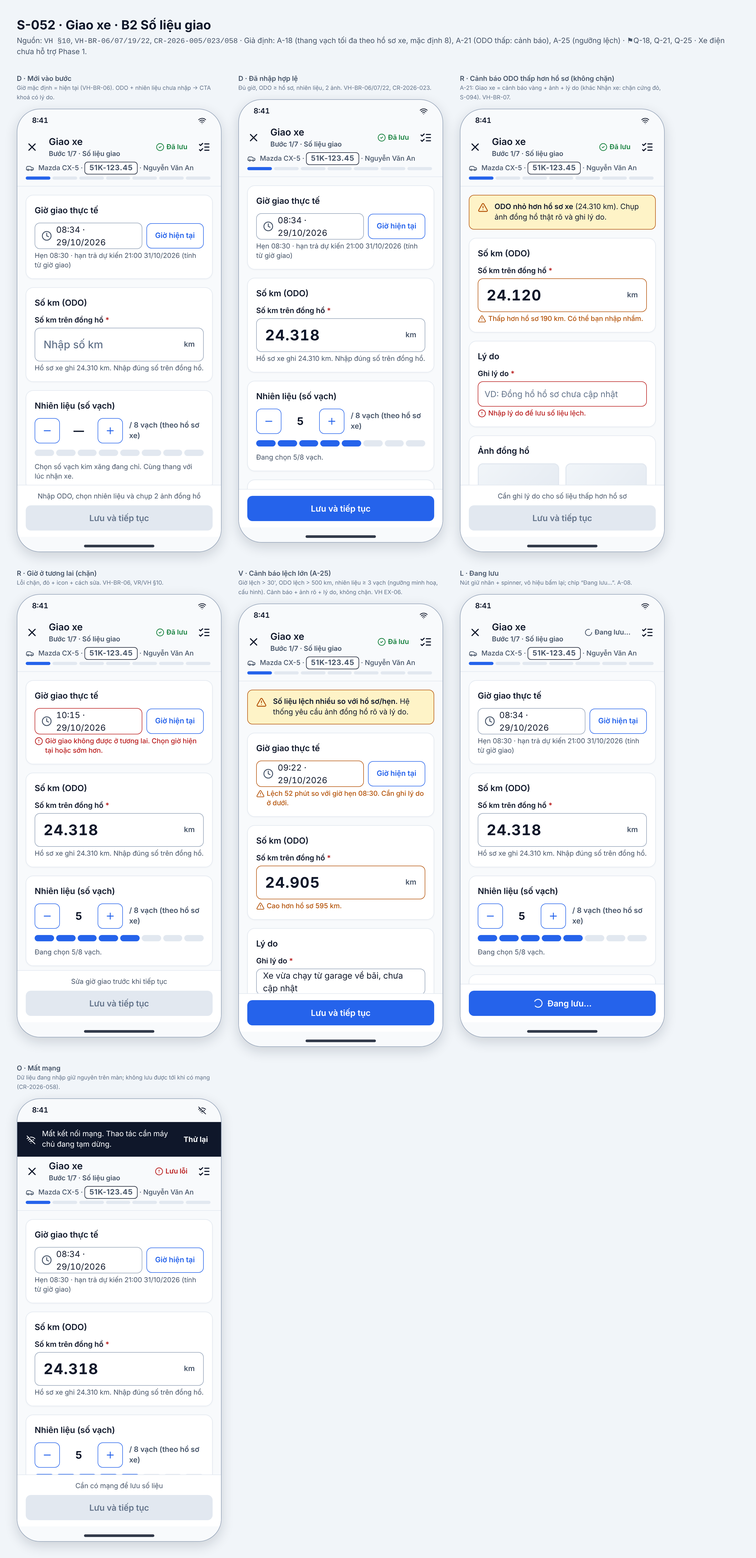
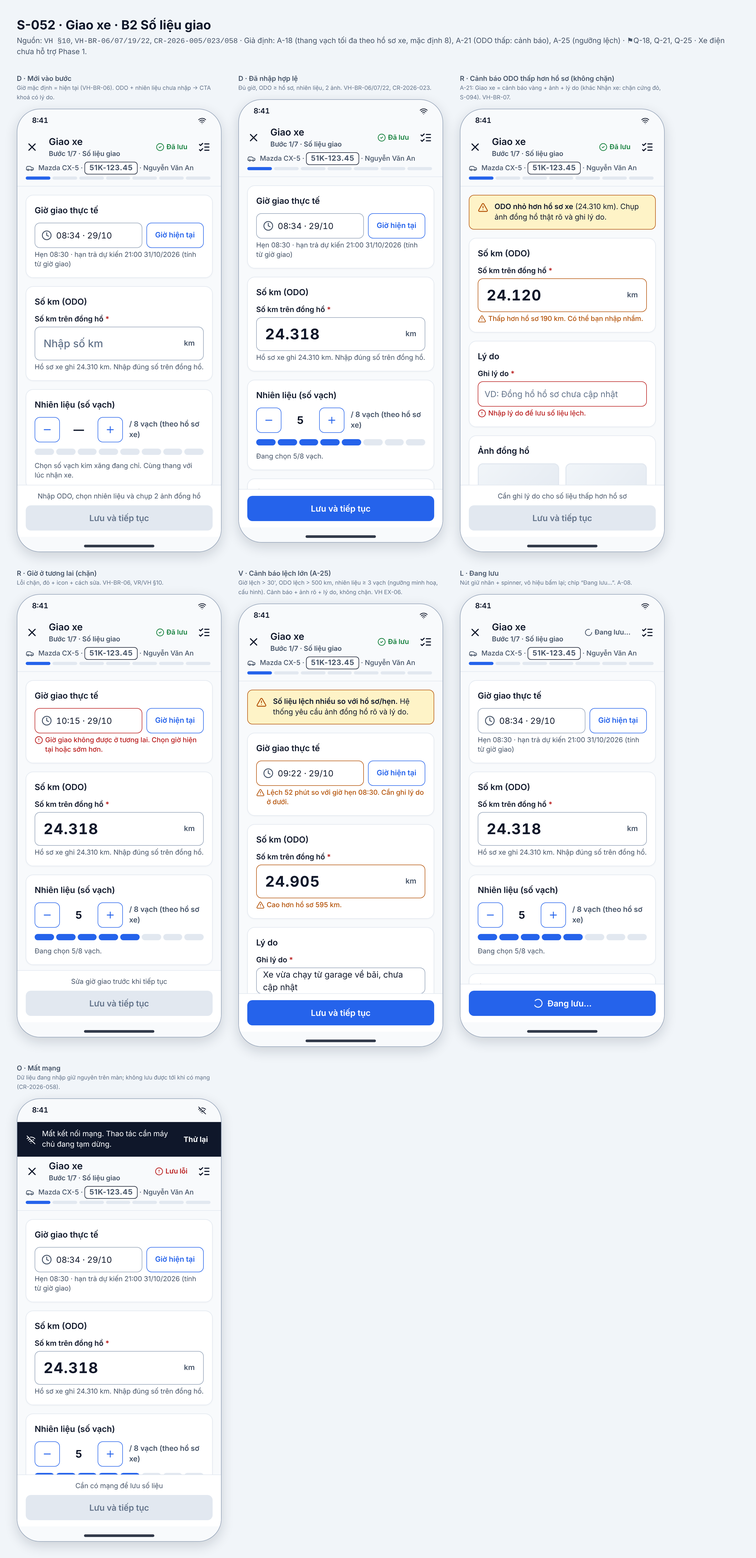
design(staff-app): WIP GĐ2–GĐ3 và cập nhật GĐ4–GĐ6
Claude-Session: https://claude.ai/code/session_01EqYbDeADsqgKkKnKeGjDm6

diff --git a/design/staff-app/screens/S-052-giao-so-lieu.html b/design/staff-app/screens/S-052-giao-so-lieu.html
@@ -7,29 +7,29 @@
 </head><body>
 <header class="page-title"><h1>S-052 · Giao xe · B2 Số liệu giao</h1><p>Nguồn: <code>VH §10</code>, <code>VH-BR-06/07/19/22</code>, <code>CR-2026-005/023/058</code> · Giả định: A-18 (thang vạch tối đa theo hồ sơ xe, mặc định 8), A-21 (ODO thấp: cảnh báo), A-25 (ngưỡng lệch) · ⚑Q-18, Q-21, Q-25 · Xe điện chưa hỗ trợ Phase 1.</p></header>
 <main class="stage">
-<section class="stage-col"><div class="stage-cap">D · Mới vào bước<small>Giờ mặc định = hiện tại (VH-BR-06). ODO + nhiên liệu chưa nhập → CTA khoá có lý do.</small></div><div class="device  "><div class="statusbar"><span>8:41</span><span class="sb-icons"><i data-icon="wifi" data-size="16"></i></span></div><div class="device-body"><div class="wiz-head"><div class="row"><button class="icon-btn" aria-label="Thoát hoặc tạm dừng"><i data-icon="x" data-size="24"></i></button><div class="grow"><div class="t-h-sm">Giao xe</div><div class="step-label">Bước 1/7 · Số liệu giao</div></div><span class="saved"><i data-icon="check-circle" data-size="16"></i>Đã lưu</span><button class="icon-btn" aria-label="Xem các bước"><i data-icon="list-checks" data-size="24"></i></button></div><div class="ctx-strip"><i data-icon="car" data-size="16"></i><span class="nm">Mazda CX-5 · <span class="plate">51K-123.45</span> · Nguyễn Văn An</span></div><div class="steps" role="img" aria-label="Bước 1 trên 7"><span class="s now"></span><span class="s "></span><span class="s "></span><span class="s "></span><span class="s "></span><span class="s "></span><span class="s "></span></div></div><div class="scroll"><div class="card"><div class="card-head"><div class="card-title">Giờ giao thực tế</div></div><div class="field"><div class="row"><div class="input grow"><i data-icon="clock" data-size="20"></i><span class="val num">08:34 · 29/10/2026</span></div><button class="btn secondary sm">Giờ hiện tại</button></div>
+<section class="stage-col"><div class="stage-cap">D · Mới vào bước<small>Giờ mặc định = hiện tại (VH-BR-06). ODO + nhiên liệu chưa nhập → CTA khoá có lý do.</small></div><div class="device  "><div class="statusbar"><span>8:41</span><span class="sb-icons"><i data-icon="wifi" data-size="16"></i></span></div><div class="device-body"><div class="wiz-head"><div class="row"><button class="icon-btn" aria-label="Thoát hoặc tạm dừng"><i data-icon="x" data-size="24"></i></button><div class="grow"><div class="t-h-sm">Giao xe</div><div class="step-label">Bước 1/7 · Số liệu giao</div></div><span class="saved"><i data-icon="check-circle" data-size="16"></i>Đã lưu</span><button class="icon-btn" aria-label="Xem các bước"><i data-icon="list-checks" data-size="24"></i></button></div><div class="ctx-strip"><i data-icon="car" data-size="16"></i><span class="nm">Mazda CX-5 · <span class="plate">51K-123.45</span> · Nguyễn Văn An</span></div><div class="steps" role="img" aria-label="Bước 1 trên 7"><span class="s now"></span><span class="s "></span><span class="s "></span><span class="s "></span><span class="s "></span><span class="s "></span><span class="s "></span></div></div><div class="scroll"><div class="card"><div class="card-head"><div class="card-title">Giờ giao thực tế</div></div><div class="field"><div class="row"><div class="input grow"><i data-icon="clock" data-size="20"></i><span class="val num">08:34 · 29/10</span></div><button class="btn secondary sm">Giờ hiện tại</button></div>
 <div class="field-help">Hẹn 08:30 · hạn trả dự kiến 21:00 31/10/2026 (tính từ giờ giao)</div></div></div><div class="card"><div class="card-head"><div class="card-title">Số km (ODO)</div></div><div class="field"><label class="field-label">Số km trên đồng hồ <span class="req">*</span></label><div class="odo"><span class="ph">Nhập số km</span><span class="unit">km</span></div>
 <div class="field-help">Hồ sơ xe ghi 24.310 km. Nhập đúng số trên đồng hồ.</div></div></div><div class="card"><div class="card-head"><div class="card-title">Nhiên liệu (số vạch)</div></div><div class="fuel-count"><div class="num-stepper"><button class="btn secondary" aria-label="Giảm 1 vạch"><i data-icon="minus" data-size="20"></i></button><span class="val">—</span><button class="btn secondary" aria-label="Tăng 1 vạch"><i data-icon="plus" data-size="20"></i></button></div><span class="of">/ 8 vạch (theo hồ sơ xe)</span></div>
 <div class="fuel-viz" aria-hidden="true"><i class=""></i><i class=""></i><i class=""></i><i class=""></i><i class=""></i><i class=""></i><i class=""></i><i class=""></i></div><div class="field-help">Chọn số vạch kim xăng đang chỉ. Cùng thang với lúc nhận xe.</div></div><div class="card"><div class="card-head"><div class="card-title">Ảnh đồng hồ</div></div><div class="photo-grid"><div class="slot-cell"><div class="photo-slot"><i data-icon="camera" data-size="24"></i><span>Chạm để chụp</span></div><div class="slot-name">Đồng hồ ODO<span class="req" aria-hidden="true">*</span><span class="sr-only">bắt buộc</span></div></div><div class="slot-cell"><div class="photo-slot"><i data-icon="camera" data-size="24"></i><span>Chạm để chụp</span></div><div class="slot-name">Đồng hồ nhiên liệu<span class="req" aria-hidden="true">*</span><span class="sr-only">bắt buộc</span></div></div></div><div class="field-help">Cùng ô ảnh với bước 2 — chụp một lần.</div></div></div><div class="cta-bar"><div class="cta-hint">Nhập ODO, chọn nhiên liệu và chụp 2 ảnh đồng hồ</div><div class="cta-row"><button class="btn" disabled>Lưu và tiếp tục</button></div></div></div><div class="homebar"></div></div></section>
-<section class="stage-col"><div class="stage-cap">D · Đã nhập hợp lệ<small>Đủ giờ, ODO ≥ hồ sơ, nhiên liệu, 2 ảnh. VH-BR-06/07/22, CR-2026-023.</small></div><div class="device  "><div class="statusbar"><span>8:41</span><span class="sb-icons"><i data-icon="wifi" data-size="16"></i></span></div><div class="device-body"><div class="wiz-head"><div class="row"><button class="icon-btn" aria-label="Thoát hoặc tạm dừng"><i data-icon="x" data-size="24"></i></button><div class="grow"><div class="t-h-sm">Giao xe</div><div class="step-label">Bước 1/7 · Số liệu giao</div></div><span class="saved"><i data-icon="check-circle" data-size="16"></i>Đã lưu</span><button class="icon-btn" aria-label="Xem các bước"><i data-icon="list-checks" data-size="24"></i></button></div><div class="ctx-strip"><i data-icon="car" data-size="16"></i><span class="nm">Mazda CX-5 · <span class="plate">51K-123.45</span> · Nguyễn Văn An</span></div><div class="steps" role="img" aria-label="Bước 1 trên 7"><span class="s now"></span><span class="s "></span><span class="s "></span><span class="s "></span><span class="s "></span><span class="s "></span><span class="s "></span></div></div><div class="scroll"><div class="card"><div class="card-head"><div class="card-title">Giờ giao thực tế</div></div><div class="field"><div class="row"><div class="input grow"><i data-icon="clock" data-size="20"></i><span class="val num">08:34 · 29/10/2026</span></div><button class="btn secondary sm">Giờ hiện tại</button></div>
+<section class="stage-col"><div class="stage-cap">D · Đã nhập hợp lệ<small>Đủ giờ, ODO ≥ hồ sơ, nhiên liệu, 2 ảnh. VH-BR-06/07/22, CR-2026-023.</small></div><div class="device  "><div class="statusbar"><span>8:41</span><span class="sb-icons"><i data-icon="wifi" data-size="16"></i></span></div><div class="device-body"><div class="wiz-head"><div class="row"><button class="icon-btn" aria-label="Thoát hoặc tạm dừng"><i data-icon="x" data-size="24"></i></button><div class="grow"><div class="t-h-sm">Giao xe</div><div class="step-label">Bước 1/7 · Số liệu giao</div></div><span class="saved"><i data-icon="check-circle" data-size="16"></i>Đã lưu</span><button class="icon-btn" aria-label="Xem các bước"><i data-icon="list-checks" data-size="24"></i></button></div><div class="ctx-strip"><i data-icon="car" data-size="16"></i><span class="nm">Mazda CX-5 · <span class="plate">51K-123.45</span> · Nguyễn Văn An</span></div><div class="steps" role="img" aria-label="Bước 1 trên 7"><span class="s now"></span><span class="s "></span><span class="s "></span><span class="s "></span><span class="s "></span><span class="s "></span><span class="s "></span></div></div><div class="scroll"><div class="card"><div class="card-head"><div class="card-title">Giờ giao thực tế</div></div><div class="field"><div class="row"><div class="input grow"><i data-icon="clock" data-size="20"></i><span class="val num">08:34 · 29/10</span></div><button class="btn secondary sm">Giờ hiện tại</button></div>
 <div class="field-help">Hẹn 08:30 · hạn trả dự kiến 21:00 31/10/2026 (tính từ giờ giao)</div></div></div><div class="card"><div class="card-head"><div class="card-title">Số km (ODO)</div></div><div class="field"><label class="field-label">Số km trên đồng hồ <span class="req">*</span></label><div class="odo"><span>24.318</span><span class="unit">km</span></div>
 <div class="field-help">Hồ sơ xe ghi 24.310 km. Nhập đúng số trên đồng hồ.</div></div></div><div class="card"><div class="card-head"><div class="card-title">Nhiên liệu (số vạch)</div></div><div class="fuel-count"><div class="num-stepper"><button class="btn secondary" aria-label="Giảm 1 vạch"><i data-icon="minus" data-size="20"></i></button><span class="val">5</span><button class="btn secondary" aria-label="Tăng 1 vạch"><i data-icon="plus" data-size="20"></i></button></div><span class="of">/ 8 vạch (theo hồ sơ xe)</span></div>
 <div class="fuel-viz" aria-hidden="true"><i class="on"></i><i class="on"></i><i class="on"></i><i class="on"></i><i class="on"></i><i class=""></i><i class=""></i><i class=""></i></div><div class="field-help">Đang chọn 5/8 vạch.</div></div><div class="card"><div class="card-head"><div class="card-title">Ảnh đồng hồ</div></div><div class="photo-grid"><div class="slot-cell"><div class="photo-slot is-filled"><div class="thumb"><i data-icon="image" data-size="32"></i></div><div class="tag"><span class="badge success"><i data-icon="check-circle" data-size="14"></i>Đã chụp</span></div></div><div class="slot-name">Đồng hồ ODO<span class="req" aria-hidden="true">*</span><span class="sr-only">bắt buộc</span></div></div><div class="slot-cell"><div class="photo-slot is-filled"><div class="thumb"><i data-icon="image" data-size="32"></i></div><div class="tag"><span class="badge success"><i data-icon="check-circle" data-size="14"></i>Đã chụp</span></div></div><div class="slot-name">Đồng hồ nhiên liệu<span class="req" aria-hidden="true">*</span><span class="sr-only">bắt buộc</span></div></div></div><div class="field-help">Cùng ô ảnh với bước 2 — chụp một lần.</div></div></div><div class="cta-bar"><div class="cta-row"><button class="btn">Lưu và tiếp tục</button></div></div></div><div class="homebar"></div></div></section>
 <section class="stage-col"><div class="stage-cap">R · Cảnh báo ODO thấp hơn hồ sơ (không chặn)<small>A-21: Giao xe = cảnh báo vàng + ảnh + lý do (khác Nhận xe: chặn cứng đỏ, S-094). VH-BR-07.</small></div><div class="device  "><div class="statusbar"><span>8:41</span><span class="sb-icons"><i data-icon="wifi" data-size="16"></i></span></div><div class="device-body"><div class="wiz-head"><div class="row"><button class="icon-btn" aria-label="Thoát hoặc tạm dừng"><i data-icon="x" data-size="24"></i></button><div class="grow"><div class="t-h-sm">Giao xe</div><div class="step-label">Bước 1/7 · Số liệu giao</div></div><span class="saved"><i data-icon="check-circle" data-size="16"></i>Đã lưu</span><button class="icon-btn" aria-label="Xem các bước"><i data-icon="list-checks" data-size="24"></i></button></div><div class="ctx-strip"><i data-icon="car" data-size="16"></i><span class="nm">Mazda CX-5 · <span class="plate">51K-123.45</span> · Nguyễn Văn An</span></div><div class="steps" role="img" aria-label="Bước 1 trên 7"><span class="s now"></span><span class="s "></span><span class="s "></span><span class="s "></span><span class="s "></span><span class="s "></span><span class="s "></span></div></div><div class="scroll"><div class="banner warning"><i data-icon="alert-triangle" data-size="20"></i><div><b>ODO nhỏ hơn hồ sơ xe</b> (24.310 km). Chụp ảnh đồng hồ thật rõ và ghi lý do.</div></div><div class="card"><div class="card-head"><div class="card-title">Số km (ODO)</div></div><div class="field"><label class="field-label">Số km trên đồng hồ <span class="req">*</span></label><div class="odo is-warn"><span>24.120</span><span class="unit">km</span></div>
 <div class="field-warn"><i data-icon="alert-triangle" data-size="16"></i><span>Thấp hơn hồ sơ 190 km. Có thể bạn nhập nhầm.</span></div></div></div><div class="card"><div class="card-head"><div class="card-title">Lý do</div></div><div class="field"><label class="field-label">Ghi lý do <span class="req">*</span></label><div class="input is-error"><span class="val ph">VD: Đồng hồ hồ sơ chưa cập nhật</span></div><div class="field-error"><i data-icon="alert-circle" data-size="16"></i><span>Nhập lý do để lưu số liệu lệch.</span></div></div></div><div class="card"><div class="card-head"><div class="card-title">Ảnh đồng hồ</div></div><div class="photo-grid"><div class="slot-cell"><div class="photo-slot is-filled"><div class="thumb"><i data-icon="image" data-size="32"></i></div><div class="tag"><span class="badge success"><i data-icon="check-circle" data-size="14"></i>Đã chụp</span></div></div><div class="slot-name">Đồng hồ ODO<span class="req" aria-hidden="true">*</span><span class="sr-only">bắt buộc</span></div></div><div class="slot-cell"><div class="photo-slot is-filled"><div class="thumb"><i data-icon="image" data-size="32"></i></div><div class="tag"><span class="badge success"><i data-icon="check-circle" data-size="14"></i>Đã chụp</span></div></div><div class="slot-name">Đồng hồ nhiên liệu<span class="req" aria-hidden="true">*</span><span class="sr-only">bắt buộc</span></div></div></div><div class="field-help">Cùng ô ảnh với bước 2 — chụp một lần.</div></div></div><div class="cta-bar"><div class="cta-hint">Cần ghi lý do cho số liệu thấp hơn hồ sơ</div><div class="cta-row"><button class="btn" disabled>Lưu và tiếp tục</button></div></div></div><div class="homebar"></div></div></section>
-<section class="stage-col"><div class="stage-cap">R · Giờ ở tương lai (chặn)<small>Lỗi chặn, đỏ + icon + cách sửa. VH-BR-06, VR/VH §10.</small></div><div class="device  "><div class="statusbar"><span>8:41</span><span class="sb-icons"><i data-icon="wifi" data-size="16"></i></span></div><div class="device-body"><div class="wiz-head"><div class="row"><button class="icon-btn" aria-label="Thoát hoặc tạm dừng"><i data-icon="x" data-size="24"></i></button><div class="grow"><div class="t-h-sm">Giao xe</div><div class="step-label">Bước 1/7 · Số liệu giao</div></div><span class="saved"><i data-icon="check-circle" data-size="16"></i>Đã lưu</span><button class="icon-btn" aria-label="Xem các bước"><i data-icon="list-checks" data-size="24"></i></button></div><div class="ctx-strip"><i data-icon="car" data-size="16"></i><span class="nm">Mazda CX-5 · <span class="plate">51K-123.45</span> · Nguyễn Văn An</span></div><div class="steps" role="img" aria-label="Bước 1 trên 7"><span class="s now"></span><span class="s "></span><span class="s "></span><span class="s "></span><span class="s "></span><span class="s "></span><span class="s "></span></div></div><div class="scroll"><div class="card"><div class="card-head"><div class="card-title">Giờ giao thực tế</div></div><div class="field"><div class="row"><div class="input grow is-error"><i data-icon="clock" data-size="20"></i><span class="val num">10:15 · 29/10/2026</span></div><button class="btn secondary sm">Giờ hiện tại</button></div>
+<section class="stage-col"><div class="stage-cap">R · Giờ ở tương lai (chặn)<small>Lỗi chặn, đỏ + icon + cách sửa. VH-BR-06, VR/VH §10.</small></div><div class="device  "><div class="statusbar"><span>8:41</span><span class="sb-icons"><i data-icon="wifi" data-size="16"></i></span></div><div class="device-body"><div class="wiz-head"><div class="row"><button class="icon-btn" aria-label="Thoát hoặc tạm dừng"><i data-icon="x" data-size="24"></i></button><div class="grow"><div class="t-h-sm">Giao xe</div><div class="step-label">Bước 1/7 · Số liệu giao</div></div><span class="saved"><i data-icon="check-circle" data-size="16"></i>Đã lưu</span><button class="icon-btn" aria-label="Xem các bước"><i data-icon="list-checks" data-size="24"></i></button></div><div class="ctx-strip"><i data-icon="car" data-size="16"></i><span class="nm">Mazda CX-5 · <span class="plate">51K-123.45</span> · Nguyễn Văn An</span></div><div class="steps" role="img" aria-label="Bước 1 trên 7"><span class="s now"></span><span class="s "></span><span class="s "></span><span class="s "></span><span class="s "></span><span class="s "></span><span class="s "></span></div></div><div class="scroll"><div class="card"><div class="card-head"><div class="card-title">Giờ giao thực tế</div></div><div class="field"><div class="row"><div class="input grow is-error"><i data-icon="clock" data-size="20"></i><span class="val num">10:15 · 29/10</span></div><button class="btn secondary sm">Giờ hiện tại</button></div>
 <div class="field-error"><i data-icon="alert-circle" data-size="16"></i><span>Giờ giao không được ở tương lai. Chọn giờ hiện tại hoặc sớm hơn.</span></div></div></div><div class="card"><div class="card-head"><div class="card-title">Số km (ODO)</div></div><div class="field"><label class="field-label">Số km trên đồng hồ <span class="req">*</span></label><div class="odo"><span>24.318</span><span class="unit">km</span></div>
 <div class="field-help">Hồ sơ xe ghi 24.310 km. Nhập đúng số trên đồng hồ.</div></div></div><div class="card"><div class="card-head"><div class="card-title">Nhiên liệu (số vạch)</div></div><div class="fuel-count"><div class="num-stepper"><button class="btn secondary" aria-label="Giảm 1 vạch"><i data-icon="minus" data-size="20"></i></button><span class="val">5</span><button class="btn secondary" aria-label="Tăng 1 vạch"><i data-icon="plus" data-size="20"></i></button></div><span class="of">/ 8 vạch (theo hồ sơ xe)</span></div>
 <div class="fuel-viz" aria-hidden="true"><i class="on"></i><i class="on"></i><i class="on"></i><i class="on"></i><i class="on"></i><i class=""></i><i class=""></i><i class=""></i></div><div class="field-help">Đang chọn 5/8 vạch.</div></div><div class="card"><div class="card-head"><div class="card-title">Ảnh đồng hồ</div></div><div class="photo-grid"><div class="slot-cell"><div class="photo-slot is-filled"><div class="thumb"><i data-icon="image" data-size="32"></i></div><div class="tag"><span class="badge success"><i data-icon="check-circle" data-size="14"></i>Đã chụp</span></div></div><div class="slot-name">Đồng hồ ODO<span class="req" aria-hidden="true">*</span><span class="sr-only">bắt buộc</span></div></div><div class="slot-cell"><div class="photo-slot is-filled"><div class="thumb"><i data-icon="image" data-size="32"></i></div><div class="tag"><span class="badge success"><i data-icon="check-circle" data-size="14"></i>Đã chụp</span></div></div><div class="slot-name">Đồng hồ nhiên liệu<span class="req" aria-hidden="true">*</span><span class="sr-only">bắt buộc</span></div></div></div><div class="field-help">Cùng ô ảnh với bước 2 — chụp một lần.</div></div></div><div class="cta-bar"><div class="cta-hint">Sửa giờ giao trước khi tiếp tục</div><div class="cta-row"><button class="btn" disabled>Lưu và tiếp tục</button></div></div></div><div class="homebar"></div></div></section>
-<section class="stage-col"><div class="stage-cap">V · Cảnh báo lệch lớn (A-25)<small>Giờ lệch &gt; 30', ODO lệch &gt; 500 km, nhiên liệu ≥ 3 vạch (ngưỡng minh hoạ, cấu hình). Cảnh báo + ảnh rõ + lý do, không chặn. VH EX-06.</small></div><div class="device  "><div class="statusbar"><span>8:41</span><span class="sb-icons"><i data-icon="wifi" data-size="16"></i></span></div><div class="device-body"><div class="wiz-head"><div class="row"><button class="icon-btn" aria-label="Thoát hoặc tạm dừng"><i data-icon="x" data-size="24"></i></button><div class="grow"><div class="t-h-sm">Giao xe</div><div class="step-label">Bước 1/7 · Số liệu giao</div></div><span class="saved"><i data-icon="check-circle" data-size="16"></i>Đã lưu</span><button class="icon-btn" aria-label="Xem các bước"><i data-icon="list-checks" data-size="24"></i></button></div><div class="ctx-strip"><i data-icon="car" data-size="16"></i><span class="nm">Mazda CX-5 · <span class="plate">51K-123.45</span> · Nguyễn Văn An</span></div><div class="steps" role="img" aria-label="Bước 1 trên 7"><span class="s now"></span><span class="s "></span><span class="s "></span><span class="s "></span><span class="s "></span><span class="s "></span><span class="s "></span></div></div><div class="scroll"><div class="banner warning"><i data-icon="alert-triangle" data-size="20"></i><div><b>Số liệu lệch nhiều so với hồ sơ/hẹn.</b> Hệ thống yêu cầu ảnh đồng hồ rõ và lý do.</div></div><div class="card"><div class="card-head"><div class="card-title">Giờ giao thực tế</div></div><div class="field"><div class="row"><div class="input grow is-warn"><i data-icon="clock" data-size="20"></i><span class="val num">09:22 · 29/10/2026</span></div><button class="btn secondary sm">Giờ hiện tại</button></div>
+<section class="stage-col"><div class="stage-cap">V · Cảnh báo lệch lớn (A-25)<small>Giờ lệch &gt; 30', ODO lệch &gt; 500 km, nhiên liệu ≥ 3 vạch (ngưỡng minh hoạ, cấu hình). Cảnh báo + ảnh rõ + lý do, không chặn. VH EX-06.</small></div><div class="device  "><div class="statusbar"><span>8:41</span><span class="sb-icons"><i data-icon="wifi" data-size="16"></i></span></div><div class="device-body"><div class="wiz-head"><div class="row"><button class="icon-btn" aria-label="Thoát hoặc tạm dừng"><i data-icon="x" data-size="24"></i></button><div class="grow"><div class="t-h-sm">Giao xe</div><div class="step-label">Bước 1/7 · Số liệu giao</div></div><span class="saved"><i data-icon="check-circle" data-size="16"></i>Đã lưu</span><button class="icon-btn" aria-label="Xem các bước"><i data-icon="list-checks" data-size="24"></i></button></div><div class="ctx-strip"><i data-icon="car" data-size="16"></i><span class="nm">Mazda CX-5 · <span class="plate">51K-123.45</span> · Nguyễn Văn An</span></div><div class="steps" role="img" aria-label="Bước 1 trên 7"><span class="s now"></span><span class="s "></span><span class="s "></span><span class="s "></span><span class="s "></span><span class="s "></span><span class="s "></span></div></div><div class="scroll"><div class="banner warning"><i data-icon="alert-triangle" data-size="20"></i><div><b>Số liệu lệch nhiều so với hồ sơ/hẹn.</b> Hệ thống yêu cầu ảnh đồng hồ rõ và lý do.</div></div><div class="card"><div class="card-head"><div class="card-title">Giờ giao thực tế</div></div><div class="field"><div class="row"><div class="input grow is-warn"><i data-icon="clock" data-size="20"></i><span class="val num">09:22 · 29/10</span></div><button class="btn secondary sm">Giờ hiện tại</button></div>
 <div class="field-warn"><i data-icon="alert-triangle" data-size="16"></i><span>Lệch 52 phút so với giờ hẹn 08:30. Cần ghi lý do ở dưới.</span></div></div></div><div class="card"><div class="card-head"><div class="card-title">Số km (ODO)</div></div><div class="field"><label class="field-label">Số km trên đồng hồ <span class="req">*</span></label><div class="odo is-warn"><span>24.905</span><span class="unit">km</span></div>
 <div class="field-warn"><i data-icon="alert-triangle" data-size="16"></i><span>Cao hơn hồ sơ 595 km.</span></div></div></div><div class="card"><div class="card-head"><div class="card-title">Lý do</div></div><div class="field"><label class="field-label">Ghi lý do <span class="req">*</span></label><div class="input"><span class="val">Xe vừa chạy từ garage về bãi, chưa cập nhật</span></div></div></div><div class="card"><div class="card-head"><div class="card-title">Nhiên liệu (số vạch)</div></div><div class="fuel-count"><div class="num-stepper"><button class="btn secondary" aria-label="Giảm 1 vạch"><i data-icon="minus" data-size="20"></i></button><span class="val">2</span><button class="btn secondary" aria-label="Tăng 1 vạch"><i data-icon="plus" data-size="20"></i></button></div><span class="of">/ 8 vạch (theo hồ sơ xe)</span></div>
 <div class="fuel-viz" aria-hidden="true"><i class="on"></i><i class="on"></i><i class=""></i><i class=""></i><i class=""></i><i class=""></i><i class=""></i><i class=""></i></div><div class="field-help">Đang chọn 2/8 vạch.</div></div></div><div class="cta-bar"><div class="cta-row"><button class="btn">Lưu và tiếp tục</button></div></div></div><div class="homebar"></div></div></section>
-<section class="stage-col"><div class="stage-cap">L · Đang lưu<small>Nút giữ nhãn + spinner, vô hiệu bấm lại; chip “Đang lưu…”. A-08.</small></div><div class="device  "><div class="statusbar"><span>8:41</span><span class="sb-icons"><i data-icon="wifi" data-size="16"></i></span></div><div class="device-body"><div class="wiz-head"><div class="row"><button class="icon-btn" aria-label="Thoát hoặc tạm dừng"><i data-icon="x" data-size="24"></i></button><div class="grow"><div class="t-h-sm">Giao xe</div><div class="step-label">Bước 1/7 · Số liệu giao</div></div><span class="saved is-saving"><i data-icon="loader" data-size="16"></i>Đang lưu…</span><button class="icon-btn" aria-label="Xem các bước"><i data-icon="list-checks" data-size="24"></i></button></div><div class="ctx-strip"><i data-icon="car" data-size="16"></i><span class="nm">Mazda CX-5 · <span class="plate">51K-123.45</span> · Nguyễn Văn An</span></div><div class="steps" role="img" aria-label="Bước 1 trên 7"><span class="s now"></span><span class="s "></span><span class="s "></span><span class="s "></span><span class="s "></span><span class="s "></span><span class="s "></span></div></div><div class="scroll"><div class="card"><div class="card-head"><div class="card-title">Giờ giao thực tế</div></div><div class="field"><div class="row"><div class="input grow"><i data-icon="clock" data-size="20"></i><span class="val num">08:34 · 29/10/2026</span></div><button class="btn secondary sm">Giờ hiện tại</button></div>
+<section class="stage-col"><div class="stage-cap">L · Đang lưu<small>Nút giữ nhãn + spinner, vô hiệu bấm lại; chip “Đang lưu…”. A-08.</small></div><div class="device  "><div class="statusbar"><span>8:41</span><span class="sb-icons"><i data-icon="wifi" data-size="16"></i></span></div><div class="device-body"><div class="wiz-head"><div class="row"><button class="icon-btn" aria-label="Thoát hoặc tạm dừng"><i data-icon="x" data-size="24"></i></button><div class="grow"><div class="t-h-sm">Giao xe</div><div class="step-label">Bước 1/7 · Số liệu giao</div></div><span class="saved is-saving"><i data-icon="loader" data-size="16"></i>Đang lưu…</span><button class="icon-btn" aria-label="Xem các bước"><i data-icon="list-checks" data-size="24"></i></button></div><div class="ctx-strip"><i data-icon="car" data-size="16"></i><span class="nm">Mazda CX-5 · <span class="plate">51K-123.45</span> · Nguyễn Văn An</span></div><div class="steps" role="img" aria-label="Bước 1 trên 7"><span class="s now"></span><span class="s "></span><span class="s "></span><span class="s "></span><span class="s "></span><span class="s "></span><span class="s "></span></div></div><div class="scroll"><div class="card"><div class="card-head"><div class="card-title">Giờ giao thực tế</div></div><div class="field"><div class="row"><div class="input grow"><i data-icon="clock" data-size="20"></i><span class="val num">08:34 · 29/10</span></div><button class="btn secondary sm">Giờ hiện tại</button></div>
 <div class="field-help">Hẹn 08:30 · hạn trả dự kiến 21:00 31/10/2026 (tính từ giờ giao)</div></div></div><div class="card"><div class="card-head"><div class="card-title">Số km (ODO)</div></div><div class="field"><label class="field-label">Số km trên đồng hồ <span class="req">*</span></label><div class="odo"><span>24.318</span><span class="unit">km</span></div>
 <div class="field-help">Hồ sơ xe ghi 24.310 km. Nhập đúng số trên đồng hồ.</div></div></div><div class="card"><div class="card-head"><div class="card-title">Nhiên liệu (số vạch)</div></div><div class="fuel-count"><div class="num-stepper"><button class="btn secondary" aria-label="Giảm 1 vạch"><i data-icon="minus" data-size="20"></i></button><span class="val">5</span><button class="btn secondary" aria-label="Tăng 1 vạch"><i data-icon="plus" data-size="20"></i></button></div><span class="of">/ 8 vạch (theo hồ sơ xe)</span></div>
 <div class="fuel-viz" aria-hidden="true"><i class="on"></i><i class="on"></i><i class="on"></i><i class="on"></i><i class="on"></i><i class=""></i><i class=""></i><i class=""></i></div><div class="field-help">Đang chọn 5/8 vạch.</div></div><div class="card"><div class="card-head"><div class="card-title">Ảnh đồng hồ</div></div><div class="photo-grid"><div class="slot-cell"><div class="photo-slot is-filled"><div class="thumb"><i data-icon="image" data-size="32"></i></div><div class="tag"><span class="badge success"><i data-icon="check-circle" data-size="14"></i>Đã chụp</span></div></div><div class="slot-name">Đồng hồ ODO<span class="req" aria-hidden="true">*</span><span class="sr-only">bắt buộc</span></div></div><div class="slot-cell"><div class="photo-slot is-filled"><div class="thumb"><i data-icon="image" data-size="32"></i></div><div class="tag"><span class="badge success"><i data-icon="check-circle" data-size="14"></i>Đã chụp</span></div></div><div class="slot-name">Đồng hồ nhiên liệu<span class="req" aria-hidden="true">*</span><span class="sr-only">bắt buộc</span></div></div></div><div class="field-help">Cùng ô ảnh với bước 2 — chụp một lần.</div></div></div><div class="cta-bar"><div class="cta-row"><button class="btn is-loading"><span class="spin" style="display:inline-flex"><i data-icon="loader" data-size="20"></i></span>Đang lưu…</button></div></div></div><div class="homebar"></div></div></section>
-<section class="stage-col"><div class="stage-cap">O · Mất mạng<small>Dữ liệu đang nhập giữ nguyên trên màn; không lưu được tới khi có mạng (CR-2026-058).</small></div><div class="device  "><div class="statusbar"><span>8:41</span><span class="sb-icons"><i data-icon="wifi-off" data-size="16"></i></span></div><div class="device-body"><div class="banner offline" role="status"><i data-icon="wifi-off" data-size="18"></i><div class="grow">Mất kết nối mạng. Thao tác cần máy chủ đang tạm dừng.</div><button class="act" style="color:var(--bg-canvas);margin:0">Thử lại</button></div><div class="wiz-head"><div class="row"><button class="icon-btn" aria-label="Thoát hoặc tạm dừng"><i data-icon="x" data-size="24"></i></button><div class="grow"><div class="t-h-sm">Giao xe</div><div class="step-label">Bước 1/7 · Số liệu giao</div></div><span class="saved is-error"><i data-icon="alert-circle" data-size="16"></i>Lưu lỗi</span><button class="icon-btn" aria-label="Xem các bước"><i data-icon="list-checks" data-size="24"></i></button></div><div class="ctx-strip"><i data-icon="car" data-size="16"></i><span class="nm">Mazda CX-5 · <span class="plate">51K-123.45</span> · Nguyễn Văn An</span></div><div class="steps" role="img" aria-label="Bước 1 trên 7"><span class="s now"></span><span class="s "></span><span class="s "></span><span class="s "></span><span class="s "></span><span class="s "></span><span class="s "></span></div></div><div class="scroll"><div class="card"><div class="card-head"><div class="card-title">Giờ giao thực tế</div></div><div class="field"><div class="row"><div class="input grow"><i data-icon="clock" data-size="20"></i><span class="val num">08:34 · 29/10/2026</span></div><button class="btn secondary sm">Giờ hiện tại</button></div>
+<section class="stage-col"><div class="stage-cap">O · Mất mạng<small>Dữ liệu đang nhập giữ nguyên trên màn; không lưu được tới khi có mạng (CR-2026-058).</small></div><div class="device  "><div class="statusbar"><span>8:41</span><span class="sb-icons"><i data-icon="wifi-off" data-size="16"></i></span></div><div class="device-body"><div class="banner offline" role="status"><i data-icon="wifi-off" data-size="18"></i><div class="grow">Mất kết nối mạng. Thao tác cần máy chủ đang tạm dừng.</div><button class="act" style="color:var(--bg-canvas);margin:0">Thử lại</button></div><div class="wiz-head"><div class="row"><button class="icon-btn" aria-label="Thoát hoặc tạm dừng"><i data-icon="x" data-size="24"></i></button><div class="grow"><div class="t-h-sm">Giao xe</div><div class="step-label">Bước 1/7 · Số liệu giao</div></div><span class="saved is-error"><i data-icon="alert-circle" data-size="16"></i>Lưu lỗi</span><button class="icon-btn" aria-label="Xem các bước"><i data-icon="list-checks" data-size="24"></i></button></div><div class="ctx-strip"><i data-icon="car" data-size="16"></i><span class="nm">Mazda CX-5 · <span class="plate">51K-123.45</span> · Nguyễn Văn An</span></div><div class="steps" role="img" aria-label="Bước 1 trên 7"><span class="s now"></span><span class="s "></span><span class="s "></span><span class="s "></span><span class="s "></span><span class="s "></span><span class="s "></span></div></div><div class="scroll"><div class="card"><div class="card-head"><div class="card-title">Giờ giao thực tế</div></div><div class="field"><div class="row"><div class="input grow"><i data-icon="clock" data-size="20"></i><span class="val num">08:34 · 29/10</span></div><button class="btn secondary sm">Giờ hiện tại</button></div>
 <div class="field-help">Hẹn 08:30 · hạn trả dự kiến 21:00 31/10/2026 (tính từ giờ giao)</div></div></div><div class="card"><div class="card-head"><div class="card-title">Số km (ODO)</div></div><div class="field"><label class="field-label">Số km trên đồng hồ <span class="req">*</span></label><div class="odo"><span>24.318</span><span class="unit">km</span></div>
 <div class="field-help">Hồ sơ xe ghi 24.310 km. Nhập đúng số trên đồng hồ.</div></div></div><div class="card"><div class="card-head"><div class="card-title">Nhiên liệu (số vạch)</div></div><div class="fuel-count"><div class="num-stepper"><button class="btn secondary" aria-label="Giảm 1 vạch"><i data-icon="minus" data-size="20"></i></button><span class="val">5</span><button class="btn secondary" aria-label="Tăng 1 vạch"><i data-icon="plus" data-size="20"></i></button></div><span class="of">/ 8 vạch (theo hồ sơ xe)</span></div>
 <div class="fuel-viz" aria-hidden="true"><i class="on"></i><i class="on"></i><i class="on"></i><i class="on"></i><i class="on"></i><i class=""></i><i class=""></i><i class=""></i></div><div class="field-help">Đang chọn 5/8 vạch.</div></div><div class="card"><div class="card-head"><div class="card-title">Ảnh đồng hồ</div></div><div class="photo-grid"><div class="slot-cell"><div class="photo-slot is-filled"><div class="thumb"><i data-icon="image" data-size="32"></i></div><div class="tag"><span class="badge success"><i data-icon="check-circle" data-size="14"></i>Đã chụp</span></div></div><div class="slot-name">Đồng hồ ODO<span class="req" aria-hidden="true">*</span><span class="sr-only">bắt buộc</span></div></div><div class="slot-cell"><div class="photo-slot is-filled is-uploading"><div class="thumb"><i data-icon="image" data-size="32"></i></div><div class="tag"><span class="badge info"><i data-icon="upload" data-size="14"></i>Đang tải 55%</span></div><span class="bar"><i></i></span></div><div class="slot-name">Đồng hồ nhiên liệu<span class="req" aria-hidden="true">*</span><span class="sr-only">bắt buộc</span></div></div></div><div class="field-help">Cùng ô ảnh với bước 2 — chụp một lần.</div></div></div><div class="cta-bar"><div class="cta-hint">Cần có mạng để lưu số liệu</div><div class="cta-row"><button class="btn" disabled>Lưu và tiếp tục</button></div></div></div><div class="homebar"></div></div></section>

diff --git a/design/staff-app/tokens/components-gd5.css b/design/staff-app/tokens/components-gd5.css
@@ -177,3 +177,4 @@
 /* Nội dung cuộn không bị co lại trong .scroll (flex column) */
 .scroll>*{flex-shrink:0}
 .sheet-bottom{overflow-y:auto}
+.input .val.num{white-space:nowrap}
